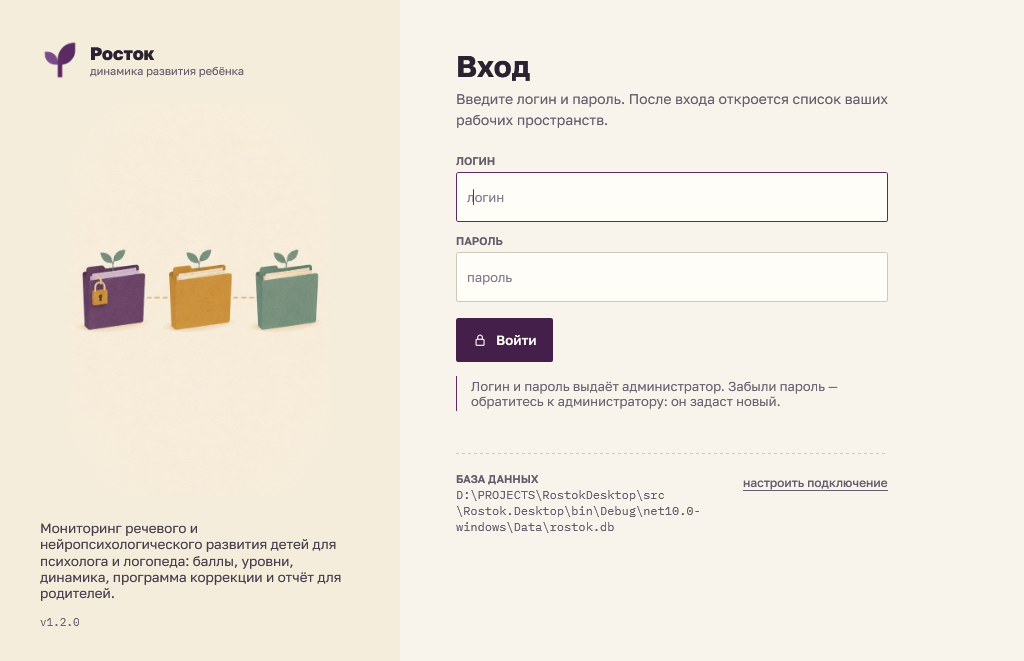
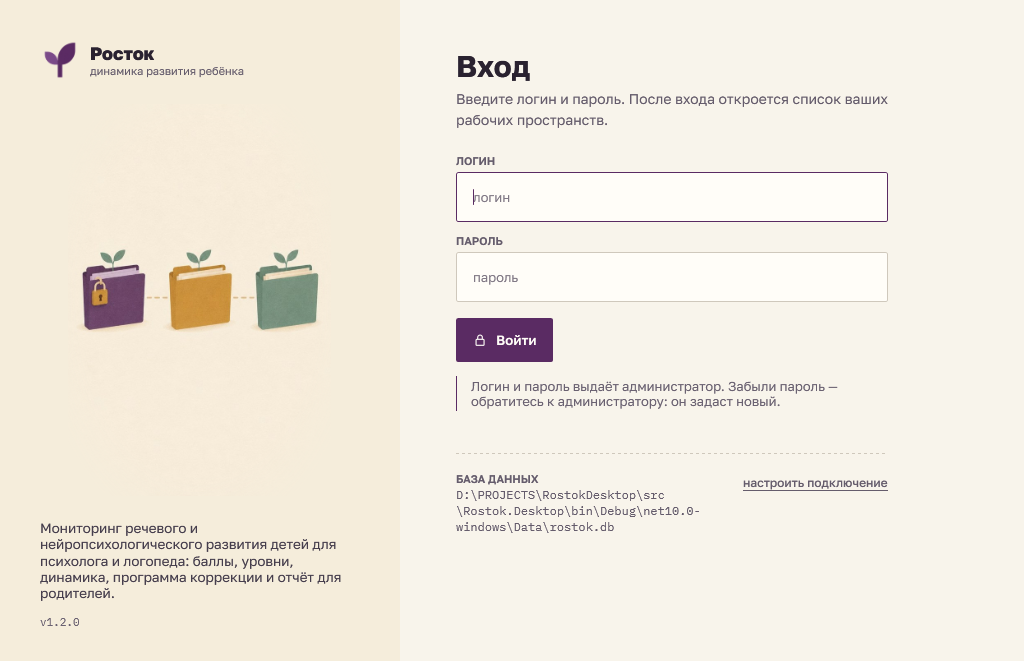
Версия 1.2.1: подсказка в полях начинается там же, где текст
Отступ поля применялся к набранному тексту дважды, к подсказке — один раз.
Подсказка теперь повторяет отступы области ввода; самопроверка сравнивает их положение.

Changed region(s): [[0.4375, 0.4841, 0.5625, 0.5446], [0.4688, 0.3933, 0.5, 0.4539], [0.4688, 0.2723, 0.5, 0.3026]]

diff --git a/src/Rostok.Controls/Themes/Rostok.xaml b/src/Rostok.Controls/Themes/Rostok.xaml
@@ -416,8 +416,11 @@
         <ControlTemplate TargetType="TextBox">
           <Border x:Name="box" Background="{TemplateBinding Background}" BorderBrush="{TemplateBinding BorderBrush}" BorderThickness="{TemplateBinding BorderThickness}" CornerRadius="2">
             <Grid Margin="{TemplateBinding Padding}">
-              <TextBlock x:Name="hint" Text="{TemplateBinding c:Ui.Placeholder}" Foreground="{StaticResource Faint}" Opacity="0.85" Margin="3,0,0,0"
-                         VerticalAlignment="{TemplateBinding VerticalContentAlignment}" TextWrapping="Wrap" IsHitTestVisible="False" Visibility="Collapsed" />
+              <!-- подсказка повторяет отступы набранного текста: отступ поля внутри области ввода и 2 px поля строки -->
+              <Border x:Name="hint" Padding="{TemplateBinding Padding}" IsHitTestVisible="False" Visibility="Collapsed">
+                <TextBlock Text="{TemplateBinding c:Ui.Placeholder}" Foreground="{StaticResource Faint}" Opacity="0.85" Margin="2,0"
+                           VerticalAlignment="{TemplateBinding VerticalContentAlignment}" TextWrapping="Wrap" />
+              </Border>
               <ScrollViewer x:Name="PART_ContentHost" Focusable="False" VerticalAlignment="{TemplateBinding VerticalContentAlignment}"
                             HorizontalScrollBarVisibility="Hidden" VerticalScrollBarVisibility="Hidden" />
             </Grid>
@@ -463,7 +466,9 @@
         <ControlTemplate TargetType="PasswordBox">
           <Border x:Name="box" Background="{TemplateBinding Background}" BorderBrush="{TemplateBinding BorderBrush}" BorderThickness="{TemplateBinding BorderThickness}" CornerRadius="2">
             <Grid Margin="{TemplateBinding Padding}">
-              <TextBlock x:Name="hint" Text="{TemplateBinding c:Ui.Placeholder}" Foreground="{StaticResource Faint}" Opacity="0.85" Margin="3,0,0,0" VerticalAlignment="Center" IsHitTestVisible="False" />
+              <Border x:Name="hint" Padding="{TemplateBinding Padding}" IsHitTestVisible="False">
+                <TextBlock Text="{TemplateBinding c:Ui.Placeholder}" Foreground="{StaticResource Faint}" Opacity="0.85" Margin="2,0" VerticalAlignment="Center" />
+              </Border>
               <ScrollViewer x:Name="PART_ContentHost" Focusable="False" VerticalAlignment="Center" />
             </Grid>
           </Border>

diff --git a/src/Rostok.Desktop/Services/SelfTest.cs b/src/Rostok.Desktop/Services/SelfTest.cs
@@ -44,6 +44,32 @@ public static class SelfTest
     private static Button ButtonWithText(DependencyObject root, string text) =>
         Find<Button>(root).First(b => Find<TextBlock>(b).Any(t => t.Text == text) || (b.Content as string) == text);
 
+    // Подсказка в пустом поле начинается там же, где набранный текст: у обычного, многострочного поля, поля пароля и даты.
+    private static async Task CheckPlaceholders()
+    {
+        var typed = Ui.Input("Жжж");
+        var empty = Ui.Input("", "подсказка");
+        var multiTyped = Ui.Input("Жжж", "", null, multiline: true, rows: 2);
+        var multiEmpty = Ui.Input("", "подсказка", null, multiline: true, rows: 2);
+        var pwd = new PasswordBox();
+        Ui.SetPlaceholder(pwd, "подсказка");
+        var date = new DateField();
+        var w = new Window { Left = -20000, Width = 420, Height = 400, ShowActivated = false, Content = new StackPanel { Children = { typed, empty, multiTyped, multiEmpty, pwd, date } } };
+        w.Show();
+        await Settle();
+        static Point HintAt(Control c) => ((FrameworkElement)Ui.Descendants(c).OfType<TextBlock>().First(t => t.Text == Ui.GetPlaceholder(c))).TranslatePoint(new Point(0, 0), c);
+        var text = typed.GetRectFromCharacterIndex(0);
+        var multi = multiTyped.GetRectFromCharacterIndex(0);
+        bool Near(double a, double b) => Math.Abs(a - b) < 0.6;
+        Check(Near(HintAt(empty).X, text.Left) && Near(HintAt(pwd).X, text.Left)
+            && Near(HintAt(multiEmpty).X, multi.Left) && Near(HintAt(multiEmpty).Y, multi.Top),
+            $"подсказка в пустом поле начинается там же, где текст (текст {text.Left:0.#}, подсказка {HintAt(empty).X:0.#}, пароль {HintAt(pwd).X:0.#})");
+        var dateBox = Ui.Descendants(date).OfType<TextBox>().First();
+        var dateText = dateBox.GetRectFromCharacterIndex(0).Left;
+        Check(Near(HintAt(dateBox).X, dateText), "подсказка поля даты начинается там же, где текст");
+        w.Close();
+    }
+
     private static bool HasText(DependencyObject root, string text) => Find<TextBlock>(root).Any(t => t.Text == text) || Find<Button>(root).Any(b => (b.Content as string) == text);
 
     private static void Click(Button b) => ((IInvokeProvider)new ButtonAutomationPeer(b).GetPattern(PatternInterface.Invoke)!).Invoke();
@@ -62,6 +88,8 @@ public static class SelfTest
             var db = new Database(dbPath);
             db.EnsureCreated();
             Check(db.Exists, "база создаётся автоматически, если файла нет");
+            await CheckPlaceholders();
+
             var users = new Users(db);
             Check(users.Authenticate(UserRoles.DefaultLogin, UserRoles.DefaultPassword) is { IsMainAdmin: true }, "в новой базе есть главный администратор admin / admin");
             var uid = users.Create("proverka", "Проверка", "1234");

diff --git a/CHANGELOG.md b/CHANGELOG.md
@@ -2,6 +2,14 @@
 
 Формат — [Keep a Changelog](https://keepachangelog.com/ru/1.1.0/), версии — [SemVer](https://semver.org/lang/ru/). В каждой версии — изменения по сравнению с предыдущей.
 
+## [1.2.1] — 2026-09-30
+
+### Исправлено
+- Подсказка в пустом поле (логин, пароль, поиск, даты, многострочные поля) начиналась левее, чем набранный текст: отступ поля применялся к тексту дважды, а к подсказке — один раз. Теперь подсказка стоит ровно там, где появится первая буква, — у всех полей, в том числе с нестандартным отступом.
+
+### Добавлено
+- Самопроверка интерфейса сравнивает положение подсказки и набранного текста у обычного, многострочного поля, поля пароля и даты — всего 45 проверок.
+
 ## [1.2.0] — 2026-09-30
 
 ### Добавлено
